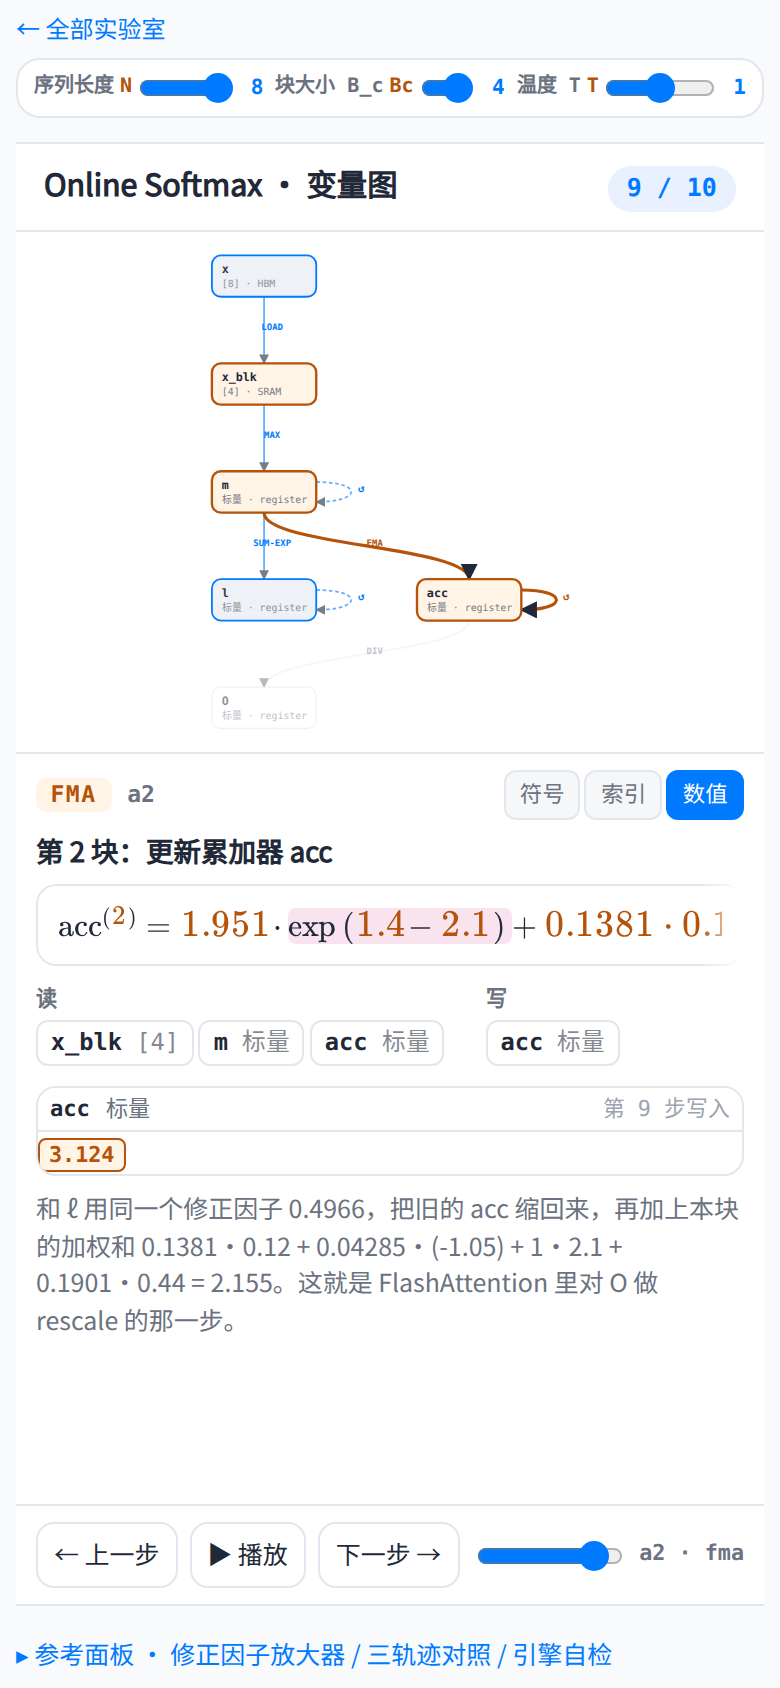
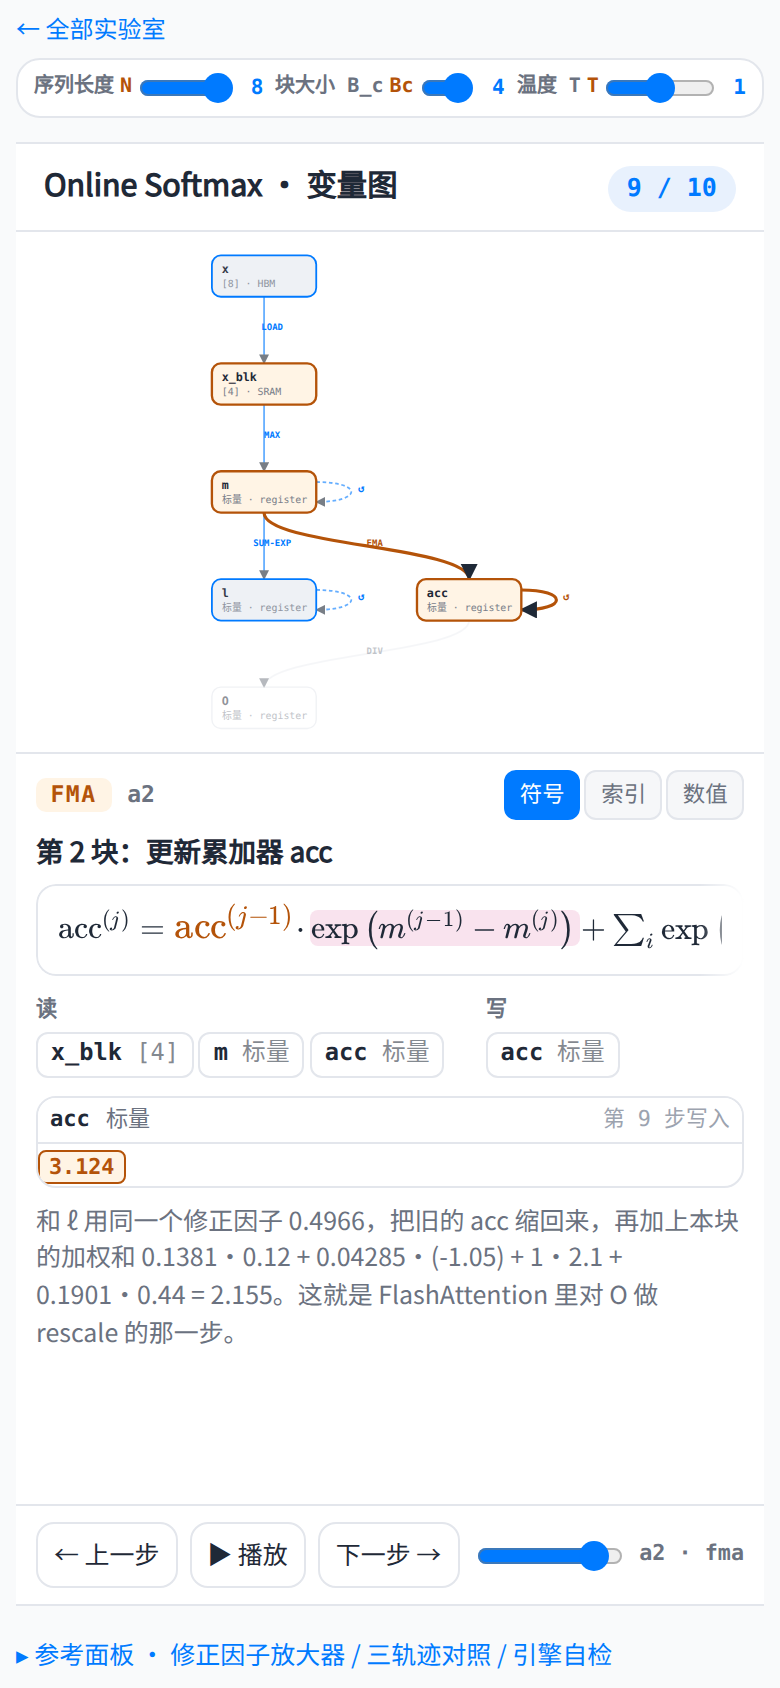
feat(labs): default the formula panel to the symbolic tier
The numeric tier expands Sigma_i exp(x_i - m) into its four concrete
terms, which buries the shape of the formula -- the thing a first-time
reader most needs to see. Symbolic shows the algorithm; a reader who
wants the worked example switches to numeric deliberately.

One line in two places (the component's DEFAULTS and L00's mount call).
verify-labs.py is 112/0 with the change -- no assertion pinned the
initial tier.

Changed region(s): [[0.0308, 0.5237, 0.9538, 0.8009], [0.8308, 0.4313, 0.9538, 0.4929], [0.6462, 0.4313, 0.7692, 0.4929]]

diff --git a/labs/assets/engine/views/variable-dag.js b/labs/assets/engine/views/variable-dag.js
@@ -520,7 +520,9 @@
   var DEFAULTS = {
     title: '',
     lead: '',
-    tier: 'num',
+    /* 默认符号档：读者先看到算法长什么样，再自己切到数值看具体算例。
+       数值档把 Σᵢ exp(...) 展开成四个具体项，算法骨架反而看不出来。 */
+    tier: 'sym',
     param: 'step',
     digits: 4,
     onStep: null

diff --git a/labs/pages/00-online-softmax.html b/labs/pages/00-online-softmax.html
@@ -783,7 +783,7 @@
 
           view = LabEngine.variableDag.mount(slot, trace, {
             title: 'Online Softmax · 变量图',
-            tier: 'num',
+            tier: 'sym',
             param: 'step',
             onStep: renderPanels
           });
